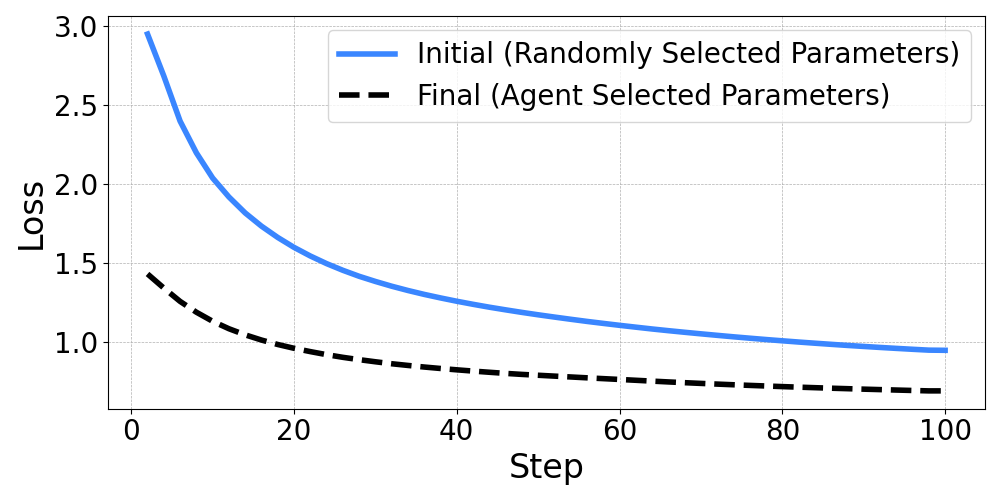
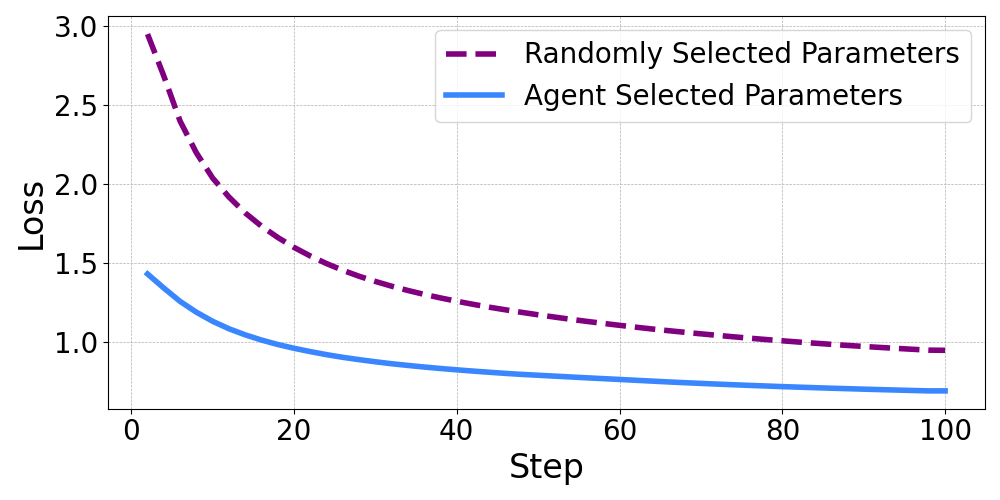
update with GPT OSS

diff --git a/plots/plot_bar.py b/plots/plot_bar.py
@@ -4,169 +4,66 @@ import matplotlib.pyplot as plt
 
 agent5_data =  {'384_0.00404': 62.89992843872104, '1024_0.00379': 26.82429755882198, '384_0.00409': 67.39568315689748, '768_0.00328': 28.790424361720607, '384_0.00414': 70.61010254234425, '2048_0.00328': 10.167381108538397, '384_0.00419': 67.6698206821534, '768_0.00444': 25.870406930615218, '384_0.00424': 70.57944462932984, '384_0.00399': 68.67044387922245, '384_0.00429': 69.3977058792889, '768_0.00419': 26.575331707043922, '384_0.00439': 66.13408440331892, '768_0.00394': 24.719500221680185, '384_0.00434': 62.350700800297666, '768_0.00424': 27.31605726437374, '384_0.00499': 63.43365163994893, '768_0.00429': 26.78281924381954, '384_0.00449': 68.20629150441275, '768_0.00460': 26.10915553665433, '384_0.00459': 67.04721986739602, '4096_0.00409': 1.2561136281323246, '768_0.00379': 25.25305523962445, '384_0.00444': 66.73690763557939, '768_0.00414': 26.118078801712006, '384_0.00455': 66.25022205753817, '384_0.00460': 69.57494851605087, '384_0.00465': 64.03034165067179, '768_0.00333': 26.609280721997248, '384_0.00469': 67.17306958175313, '384_0.00471': 66.08291262407283, '384_0.00479': 63.10189474040365, '768_0.00369': 25.14579358063616, '768_0.00389': 23.746610640747498, '384_0.00490': 66.01781827833318, '768_0.00348': 28.057834520510685, '384_0.00422': 67.56488274859116, '768_0.00288': 27.391336838612673, '384_0.00435': 69.93461326825104, '384_0.00475': 64.67585599324066, '384_0.00402': 67.80355337177382, '384_0.00410': 71.0943177079664, '384_0.00420': 70.61150530753595, '384_0.00394': 68.92841358905969, '384_0.00480': 63.3536271209436, '768_0.00439': 25.32875408911212, '384_0.00440': 66.12332246529239, '384_0.00405': 66.09580819143844, '384_0.00415': 66.35225722209671, '384_0.00425': 68.77247848587687, '384_0.00445': 69.354873240052, '384_0.00464': 66.10281457305287, '384_0.00454': 70.36670835947007, '384_0.00450': 68.28890790047375, '384_0.00470': 62.65338359663198, '384_0.00495': 64.86974583671339, '384_0.00389': 68.5595754575047, '384_0.00412': 66.87840456367671, '384_0.00408': 67.51329631926352, '1024_0.00394': 27.642439147799617, '384_0.00484': 71.68887610755866, '384_0.00485': 69.167348291433, '384_0.00430': 68.64606732316547, '384_0.00384': 68.09371343393407, '384_0.00486': 68.6299969176348, '768_0.00486': 24.53622169760704, '1024_0.00409': 26.91209516364785, '384_0.00493': 64.65327499291203, '768_0.00352': 28.489089455753277, '768_0.00495': 22.38529260155235, '384_0.00354': 75.43911230193855, '384_0.00403': 69.88170748654464, '384_0.00369': 71.640532260971, '384_0.00488': 64.9937328510308, '384_0.00400': 67.61144419731598, '384_0.00411': 70.50597012408639, '384_0.00359': 72.72696737599598, '768_0.00403': 26.809270626760334, '384_0.00364': 69.63992069106752, '768_0.00354': 26.57359941305943, '384_0.00413': 68.60823693536467, '768_0.00353': 27.240146092827818, '1024_0.00424': 24.903560554666424, '384_0.00407': 69.5501373587998, '384_0.00431': 67.91788167007742, '384_0.00355': 72.27565630146275, '384_0.00406': 68.57183199580817, '384_0.00358': 74.71245558535863, '1024_0.00399': 28.704671973176097, '384_0.00353': 72.92860810000957, '768_0.00283': 28.60588041537368, '384_0.00283': 77.83231091864579, '384_0.00374': 69.82883241930443, '384_0.00237': 77.88890955726276, '384_0.00323': 75.27150949403206, '384_0.00243': 78.52366019446045, '384_0.00248': 79.59882288120752, '384_0.00232': 79.1084562247092, '384_0.00217': 80.65226486547104, '384_0.00222': 81.92525327725751, '384_0.00212': 80.5833978965932, '384_0.00227': 78.37833191832755, '384_0.00207': 78.6584423267902, '384_0.00197': 81.84375407003499, '384_0.00297': 74.91506079914444, '384_0.00103': 84.62170151946538, '384_0.00050': 84.07805813013012, '384_0.00121': 83.37328729645768, '384_0.00116': 84.27134576926119, '384_0.00203': 81.34063109862035, '384_0.00086': 85.24431993385153, '384_0.00081': 85.53765221314535, '384_0.00045': 83.81560524599014, '384_0.00051': 85.40445595925513, '384_0.00030': 79.04369925589437, '384_0.00020': 72.07696699048799, '384_0.00076': 85.58985231390176, '768_0.00051': 40.90771925615962, '384_0.00126': 83.1246558102795, '384_0.00015': 67.12605575460229, '1024_0.00005': 37.48953537641294, '384_0.00061': 85.89137368504083, '768_0.00126': 36.83218990818042, '384_0.00005': 49.266808660283594, '384_0.00091': 84.80800170935896, '384_0.00136': 84.3433481098442, '384_0.00046': 85.52413757346095, '384_0.00066': 84.94904757738865, '384_0.00071': 85.30023660735802, '384_0.00016': 67.41695379739474, '384_0.00021': 73.06445117995176, '384_0.00001': 40.220111294812924, '384_0.00131': 83.72008584423223, '384_0.00006': 50.84517848835364, '384_0.00007': 52.72975195246471, '384_0.00011': 59.76182064007383, '384_0.00056': 84.55679751457015, '384_0.00141': 82.55999574498261, '1024_0.00015': 44.80948773854212, '384_0.00065': 85.64633545129566, '384_0.00090': 84.10601625867069, '384_0.00314': 78.55325720196362, '384_0.00105': 84.72058624729631, '384_0.00268': 74.65946290739285, '384_0.00003': 44.851522028022714, '768_0.00005': 30.488022205478917, '384_0.00035': 81.06140318364268, '384_0.00025': 76.555579124697, '384_0.00010': 58.87735086089424, '384_0.00040': 83.56865651349237, '384_0.00088': 85.55544802315345, '384_0.00108': 84.09855150818859, '384_0.00012': 61.269749681517034}
 agent1_data = {'4096_0.00455': 1.0569741219486337, '384_0.00328': 73.7007823116046, '768_0.00328': 26.825667554766135, '384_0.00455': 67.67692430458075, '2048_0.00455': 8.141340938028709, '1024_0.00485': 25.305225049967362, '384_0.00465': 66.40477828374375, '384_0.00372': 72.74592376591431, '384_0.00379': 69.65401470502968, '384_0.00384': 73.03808119378498, '384_0.00339': 71.3660033564182, '384_0.00329': 71.47132470643334, '384_0.00389': 69.87225683315258, '384_0.00394': 70.43426890822799, '384_0.00348': 72.93257209002518, '384_0.00323': 73.7993191610922, '768_0.00339': 24.95440069045577, '384_0.00325': 74.65388927987786, '384_0.00318': 76.19421944524497, '384_0.00313': 75.02000257682148, '384_0.00308': 75.88252170568978, '384_0.00303': 73.39257104366585, '384_0.00314': 70.41130425750895, '384_0.00298': 73.11563719835243, '384_0.00333': 74.60799785132352, '384_0.00319': 74.61415014736406, '768_0.00319': 27.424384083725293, '384_0.00317': 76.11117073733791, '384_0.00312': 71.14304258271915, '384_0.00293': 74.35101443897105, '384_0.00316': 76.76975700759465, '384_0.00307': 75.10803615861666, '384_0.00321': 72.10324193479782, '384_0.00302': 74.42246617805033, '384_0.00315': 75.70136756851431, '384_0.00326': 75.72173707047534, '384_0.00311': 75.24492977848139, '384_0.00310': 74.75354426626275, '384_0.00320': 74.95890996516127, '384_0.00309': 74.76334646611521, '384_0.00306': 76.21328409702197, '384_0.00305': 75.31026663112662, '384_0.00301': 77.08297406119596, '384_0.00300': 75.3210412322811, '384_0.00331': 75.19763543570747, '384_0.00304': 76.89995536751866, '384_0.00336': 74.33441296026591, '384_0.00288': 75.89936003387099, '384_0.00335': 73.42445980883272, '384_0.00283': 78.33503462442424, '384_0.00278': 78.4111582294144, '384_0.00273': 79.00765455464887, '384_0.00268': 79.92337954528121, '384_0.00263': 76.41480129126434, '384_0.00258': 79.32164884016098, '384_0.00253': 80.21681809394936, '384_0.00247': 82.0402842987772}
-agent5_data =  {
-  '384_0.00404': 62.89992843872104,
-  '2048_0.00298': 26.82429755882198,
-  '384_0.00409': 67.39568315689748,
-  '4096_0.00293': 28.790424361720607,
-  '384_0.00414': 70.61010254234425,
-  '2048_0.00288': 10.167381108538397,
-  '384_0.00419': 67.6698206821534,
-  '4096_0.00283': 25.870406930615218,
-  '384_0.00424': 70.57944462932984,
-  '384_0.00399': 68.67044387922245,
-  '384_0.00429': 69.3977058792889,
-  '2048_0.00278': 26.575331707043922,
-  '384_0.00439': 66.13408440331892,
-  '4096_0.00273': 24.719500221680185,
-  '384_0.00434': 62.350700800297666,
-  '2048_0.00268': 27.31605726437374,
-  '384_0.00499': 63.43365163994893,
-  '4096_0.00263': 26.78281924381954,
-  '384_0.00449': 68.20629150441275,
-  '2048_0.00258': 26.10915553665433,
-  '384_0.00459': 67.04721986739602,
-  '4096_0.00253': 1.2561136281323246,
-  '2048_0.00248': 25.25305523962445,
-  '384_0.00444': 66.73690763557939,
-  '4096_0.00243': 26.118078801712006,
-  '384_0.00455': 66.25022205753817,
-  '384_0.00460': 69.57494851605087,
-  '384_0.00465': 64.03034165067179,
-  '2048_0.00237': 26.609280721997248,
-  '384_0.00469': 67.17306958175313,
-  '384_0.00471': 66.08291262407283,
-  '384_0.00479': 63.10189474040365,
-  '4096_0.00232': 25.14579358063616,
-  '2048_0.00227': 23.746610640747498,
-  '384_0.00490': 66.01781827833318,
-  '4096_0.00222': 28.057834520510685,
-  '384_0.00422': 67.56488274859116,
-  '2048_0.00217': 27.391336838612673,
-  '384_0.00435': 69.93461326825104,
-  '384_0.00475': 64.67585599324066,
-  '384_0.00402': 67.80355337177382,
-  '384_0.00410': 71.0943177079664,
-  '384_0.00420': 70.61150530753595,
-  '384_0.00394': 68.92841358905969,
-  '384_0.00480': 63.3536271209436,
-  '4096_0.00212': 25.32875408911212,
-  '384_0.00440': 66.12332246529239,
-  '384_0.00405': 66.09580819143844,
-  '384_0.00415': 66.35225722209671,
-  '384_0.00425': 68.77247848587687,
-  '384_0.00445': 69.354873240052,
-  '384_0.00464': 66.10281457305287,
-  '384_0.00454': 70.36670835947007,
-  '384_0.00450': 68.28890790047375,
-  '384_0.00470': 62.65338359663198,
-  '384_0.00495': 64.86974583671339,
-  '384_0.00389': 68.5595754575047,
-  '384_0.00412': 66.87840456367671,
-  '384_0.00408': 67.51329631926352,
-  '2048_0.00207': 27.642439147799617,
-  '384_0.00484': 71.68887610755866,
-  '384_0.00485': 69.167348291433,
-  '384_0.00430': 68.64606732316547,
-  '384_0.00384': 68.09371343393407,
-  '384_0.00486': 68.6299969176348,
-  '4096_0.00202': 24.53622169760704,
-  '2048_0.00197': 26.91209516364785,
-  '384_0.00493': 64.65327499291203,
-  '4096_0.00192': 28.489089455753277,
-  '2048_0.00187': 22.38529260155235,
-  '384_0.00354': 75.43911230193855,
-  '384_0.00403': 69.88170748654464,
-  '384_0.00369': 71.640532260971,
-  '384_0.00488': 64.9937328510308,
-  '384_0.00400': 67.61144419731598,
-  '384_0.00411': 70.50597012408639,
-  '384_0.00359': 72.72696737599598,
-  '4096_0.00182': 26.809270626760334,
-  '384_0.00364': 69.63992069106752,
-  '2048_0.00177': 26.57359941305943,
-  '384_0.00413': 68.60823693536467,
-  '4096_0.00172': 27.240146092827818,
-  '2048_0.00167': 24.903560554666424,
-  '384_0.00407': 69.5501373587998,
-  '384_0.00431': 67.91788167007742,
-  '384_0.00355': 72.27565630146275,
-  '384_0.00406': 68.57183199580817,
-  '384_0.00358': 74.71245558535863,
-  '4096_0.00162': 28.704671973176097,
-  '384_0.00353': 72.92860810000957,
-  '2048_0.00157': 28.60588041537368,
-  '384_0.00283': 77.83231091864579,
-  '384_0.00374': 69.82883241930443,
-  '384_0.00237': 77.88890955726276,
-  '384_0.00323': 75.27150949403206,
-  '384_0.00243': 78.52366019446045,
-  '384_0.00248': 79.59882288120752,
-  '384_0.00232': 79.1084562247092,
-  '384_0.00217': 80.65226486547104,
-  '384_0.00222': 81.92525327725751,
-  '384_0.00212': 80.5833978965932,
-  '384_0.00227': 78.37833191832755,
-  '384_0.00207': 78.6584423267902,
-  '384_0.00197': 81.84375407003499,
-  '384_0.00297': 74.91506079914444,
-  '384_0.00103': 84.62170151946538,
-  '384_0.00050': 84.07805813013012,
-  '384_0.00121': 83.37328729645768,
-  '384_0.00116': 84.27134576926119,
-  '384_0.00203': 81.34063109862035,
-  '384_0.00086': 85.24431993385153,
-  '384_0.00081': 85.53765221314535,
-  '384_0.00045': 83.81560524599014,
-  '384_0.00051': 85.40445595925513,
-  '384_0.00030': 79.04369925589437,
-  '384_0.00020': 72.07696699048799,
-  '384_0.00076': 85.58985231390176,
-  '768_0.00051': 40.90771925615962,
-  '384_0.00126': 83.1246558102795,
-  '384_0.00015': 67.12605575460229,
-  '1024_0.00005': 37.48953537641294,
-  '384_0.00061': 85.89137368504083,
-  '768_0.00126': 36.83218990818042,
-  '384_0.00005': 49.266808660283594,
-  '384_0.00091': 84.80800170935896,
-  '384_0.00136': 84.3433481098442,
-  '384_0.00046': 85.52413757346095,
-  '384_0.00066': 84.94904757738865,
-  '384_0.00071': 85.30023660735802,
-  '384_0.00016': 67.41695379739474,
-  '384_0.00021': 73.06445117995176,
-  '384_0.00001': 40.220111294812924,
-  '384_0.00131': 83.72008584423223,
-  '384_0.00006': 50.84517848835364,
-  '384_0.00007': 52.72975195246471,
-  '384_0.00011': 59.76182064007383,
-  '384_0.00056': 84.55679751457015,
-  '384_0.00141': 82.55999574498261,
-  '1024_0.00015': 44.80948773854212,
-  '384_0.00065': 85.64633545129566,
-  '384_0.00090': 84.10601625867069,
-  '384_0.00314': 78.55325720196362,
-  '384_0.00105': 84.72058624729631,
-  '384_0.00268': 74.65946290739285,
-  '384_0.00003': 44.851522028022714,
-  '4096_0.00152': 30.488022205478917,
-  '384_0.00035': 81.06140318364268,
-  '384_0.00025': 76.555579124697,
-  '384_0.00010': 58.87735086089424,
-  '384_0.00040': 83.56865651349237,
-  '384_0.00088': 85.55544802315345,
-  '384_0.00108': 84.09855150818859,
-  '384_0.00012': 61.269749681517034
-}  
-
+agent5_data = {'384_0.00404': 62.89992843872104, '2048_0.00298': 26.82429755882198, '384_0.00409': 67.39568315689748, '4096_0.00293': 28.790424361720607, '384_0.00414': 70.61010254234425, '2048_0.00288': 10.167381108538397, '384_0.00419': 67.6698206821534, '4096_0.00283': 25.870406930615218, '384_0.00424': 70.57944462932984, '384_0.00399': 68.67044387922245, '384_0.00429': 69.3977058792889, '2048_0.00278': 26.575331707043922, '384_0.00439': 66.13408440331892, '4096_0.00273': 24.719500221680185, '384_0.00434': 62.350700800297666, '2048_0.00268': 27.31605726437374, '384_0.00499': 63.43365163994893, '4096_0.00263': 26.78281924381954, '384_0.00449': 68.20629150441275, '2048_0.00258': 26.10915553665433, '384_0.00459': 67.04721986739602, '4096_0.00253': 1.2561136281323246, '2048_0.00248': 25.25305523962445, '384_0.00444': 66.73690763557939, '4096_0.00243': 26.118078801712006, '384_0.00455': 66.25022205753817, '384_0.00460': 69.57494851605087, '384_0.00465': 64.03034165067179, '2048_0.00237': 26.609280721997248, '384_0.00469': 67.17306958175313, '384_0.00471': 66.08291262407283, '384_0.00479': 63.10189474040365, '4096_0.00232': 25.14579358063616, '2048_0.00227': 23.746610640747498, '384_0.00490': 66.01781827833318, '4096_0.00222': 28.057834520510685, '384_0.00422': 67.56488274859116, '2048_0.00217': 27.391336838612673, '384_0.00435': 69.93461326825104, '384_0.00475': 64.67585599324066, '384_0.00402': 67.80355337177382, '384_0.00410': 71.0943177079664, '384_0.00420': 70.61150530753595, '384_0.00394': 68.92841358905969, '384_0.00480': 63.3536271209436, '4096_0.00212': 25.32875408911212, '384_0.00440': 66.12332246529239, '384_0.00405': 66.09580819143844, '384_0.00415': 66.35225722209671, '384_0.00425': 68.77247848587687, '384_0.00445': 69.354873240052, '384_0.00464': 66.10281457305287, '384_0.00454': 70.36670835947007, '384_0.00450': 68.28890790047375, '384_0.00470': 62.65338359663198, '384_0.00495': 64.86974583671339, '384_0.00389': 68.5595754575047, '384_0.00412': 66.87840456367671, '384_0.00408': 67.51329631926352, '2048_0.00207': 27.642439147799617, '384_0.00484': 71.68887610755866, '384_0.00485': 69.167348291433, '384_0.00430': 68.64606732316547, '384_0.00384': 68.09371343393407, '384_0.00486': 68.6299969176348, '4096_0.00202': 24.53622169760704, '2048_0.00197': 26.91209516364785, '384_0.00493': 64.65327499291203, '4096_0.00192': 28.489089455753277, '2048_0.00187': 22.38529260155235, '384_0.00354': 75.43911230193855, '384_0.00403': 69.88170748654464, '384_0.00369': 71.640532260971, '384_0.00488': 64.9937328510308, '384_0.00400': 67.61144419731598, '384_0.00411': 70.50597012408639, '384_0.00359': 72.72696737599598, '4096_0.00182': 26.809270626760334, '384_0.00364': 69.63992069106752, '2048_0.00177': 26.57359941305943, '384_0.00413': 68.60823693536467, '4096_0.00172': 27.240146092827818, '2048_0.00167': 24.903560554666424, '384_0.00407': 69.5501373587998, '384_0.00431': 67.91788167007742, '384_0.00355': 72.27565630146275, '384_0.00406': 68.57183199580817, '384_0.00358': 74.71245558535863, '4096_0.00162': 28.704671973176097, '384_0.00353': 72.92860810000957, '2048_0.00157': 28.60588041537368, '384_0.00283': 77.83231091864579, '384_0.00374': 69.82883241930443, '384_0.00237': 77.88890955726276, '384_0.00323': 75.27150949403206, '384_0.00243': 78.52366019446045, '384_0.00248': 79.59882288120752, '384_0.00232': 79.1084562247092, '384_0.00217': 80.65226486547104, '384_0.00222': 81.92525327725751, '384_0.00212': 80.5833978965932, '384_0.00227': 78.37833191832755, '384_0.00207': 78.6584423267902, '384_0.00197': 81.84375407003499, '384_0.00297': 74.91506079914444, '384_0.00103': 84.62170151946538, '384_0.00050': 84.07805813013012, '384_0.00121': 83.37328729645768, '384_0.00116': 84.27134576926119, '384_0.00203': 81.34063109862035, '384_0.00086': 85.24431993385153, '384_0.00081': 85.53765221314535, '384_0.00045': 83.81560524599014, '384_0.00051': 85.40445595925513, '384_0.00030': 79.04369925589437, '384_0.00020': 72.07696699048799, '384_0.00076': 85.58985231390176, '768_0.00051': 40.90771925615962, '384_0.00126': 83.1246558102795, '384_0.00015': 67.12605575460229, '1024_0.00005': 37.48953537641294, '384_0.00061': 85.89137368504083, '768_0.00126': 36.83218990818042, '384_0.00005': 49.266808660283594, '384_0.00091': 84.80800170935896, '384_0.00136': 84.3433481098442, '384_0.00046': 85.52413757346095, '384_0.00066': 84.94904757738865, '384_0.00071': 85.30023660735802, '384_0.00016': 67.41695379739474, '384_0.00021': 73.06445117995176, '384_0.00001': 40.220111294812924, '384_0.00131': 83.72008584423223, '384_0.00006': 50.84517848835364, '384_0.00007': 52.72975195246471, '384_0.00011': 59.76182064007383, '384_0.00056': 84.55679751457015, '384_0.00141': 82.55999574498261, '1024_0.00015': 44.80948773854212, '384_0.00065': 85.64633545129566, '384_0.00090': 84.10601625867069, '384_0.00314': 78.55325720196362, '384_0.00105': 84.72058624729631, '384_0.00268': 74.65946290739285, '384_0.00003': 44.851522028022714, '4096_0.00152': 30.488022205478917, '384_0.00035': 81.06140318364268, '384_0.00025': 76.555579124697, '384_0.00010': 58.87735086089424, '384_0.00040': 83.56865651349237, '384_0.00088': 85.55544802315345, '384_0.00108': 84.09855150818859, '384_0.00012': 61.269749681517034}
+ 
+agent_oss_data= {'384_0.00500': 64.6815924991638, '1024_0.00300': 28.335384212033688, '384_0.00450': 66.8543759380095, '384_0.00400': 67.46782266038241, '768_0.00400': 26.859764096910737, '384_0.00390': 70.39884350365737, '384_0.00350': 72.4264240783316, '384_0.00300': 74.03299213080682, '384_0.00250': 76.06545362388118, '384_0.00200': 79.27071398452175, '384_0.00232': 80.33969621360164, '384_0.00258': 82.02}
 # Prepare x and y
-x = list(agent1_data.keys())
-y = list(agent1_data.values())
+# x = list(agent1_data.keys())
+# y = list(agent1_data.values())
 
 # agent5_data= dict(list(agent5_data.items())[40:114])
 # x = list(agent5_data.keys())
 # y = list(agent5_data.values())
+
+#double x axis 
+
+import matplotlib.pyplot as plt
+import numpy as np
+
+# Example data (replace with your real dicts)
+agent1_data = list(agent1_data.values())
+agent_oss_data = list(agent_oss_data.values())
+
+# Find max length
+max_len = max(len(agent1_data), len(agent_oss_data))
+
+# Pad shorter list with NaNs so lengths match
+agent1_data = agent1_data + [np.nan] * (max_len - len(agent1_data))
+agent_oss_data = agent_oss_data + [np.nan] * (max_len - len(agent_oss_data))
+
+indices = np.arange(max_len)
+bar_width = 0.4
+
+plt.figure(figsize=(10, 5))
+plt.bar(indices - bar_width/2, agent1_data, width=bar_width, label="Nemotron-Ultra-253B", color="skyblue")
+plt.bar(indices + bar_width/2, agent_oss_data, width=bar_width, label="GPT-OSS-120B", color="orange")
+
+plt.xlabel("Trial Index", fontsize=24)
+plt.ylabel("Score", fontsize=24)
+# plt.xticks(indices, indices, rotation=45, fontsize=14)
+plt.xticks(
+    ticks=np.arange(0, len(agent1_data), 2),  # every 2nd tick
+    labels=np.arange(0, len(agent1_data), 2),
+    rotation=45,
+    ha='right',
+    fontsize=16
+)
+plt.yticks(fontsize=16)
+plt.legend(fontsize=18, loc='upper center', bbox_to_anchor=(0.5, 1.19), ncol=4)
+
+# plt.legend(fontsize=24)
+plt.grid(axis="y", linestyle="--", alpha=0.7)
+plt.tight_layout()
+
+
+plt.savefig("trial_index_comparison.png", dpi=300)
+plt.show()
+
+
+exit(0)
+
+x = list(agent_oss_data.keys())
+y = list(agent_oss_data.values())
 
 
 # Plot
@@ -182,4 +79,4 @@ plt.ylabel("Score", fontsize=34)
 plt.tight_layout()
 plt.tick_params(axis='both', labelsize=20)
 plt.grid(True, which="both", linestyle='--', linewidth=0.5)
-plt.savefig("/lustre/orion/stf218/proj-shared/brave/vllm_test/plots/agent1.png")
+plt.savefig("/lustre/orion/stf218/proj-shared/brave/vllm_test/plots/agent_oss.png")

diff --git a/main.py b/main.py
@@ -17,7 +17,7 @@ EMB_VALUES = [384, 768, 1024, 2048, 4096]
 LR_VALUES = [round(lr, 5) for lr in np.linspace(0.005, 0.0000005, 100).tolist()]
 TOTAL_SEARCH_SPACE = len(EMB_VALUES) * len(LR_VALUES)
 SCORE_THRESHOLD = 185 # Stop when the best score reaches this value
-MAX_TRIALS = 3
+MAX_TRIALS = 120
 
 def log_message(agent_id: int, message: str):
     """Prints a message with a timestamp and agent ID."""
@@ -128,10 +128,12 @@ Based on the results so far, select up to **5** new, promising, untried `(embedd
 - **Available Embedding Sizes**: {EMB_VALUES}
 - **Available Learning Rates**: A range from {LR_VALUES[0]} to {LR_VALUES[-1]}
 Respond with a Python list of tuples, like: `[(1024, 0.00123), (2048, 0.00050)]`
-It should be the last thing you write.
+- **briefly describe how did you reach your result before the tuples. write your reasoning process in 10 sentences. Only important parts.
+-Tuples should be the last thing you write.
 """
     try:
         response = safe_llm_call(agent_id, prompt)
+        print("response:", response)
         suggested_params = parse_llm_response(response)
     except Exception as e:
         log_message(agent_id, f"❌ An error occurred during LLM call: {e}")
@@ -246,7 +248,8 @@ if __name__ == "__main__":
 
     try:
         with open('.nemotron_token', 'r') as token_file: TOKEN = token_file.readline().strip()
-        llm = ChatOpenAI(api_key=f"{TOKEN}", base_url="https://obsidian.ccs.ornl.gov/ai/nemotron/api/v1", model_name="Llama-3_1-Nemotron-Ultra-253B-v1-FP8")
+        #llm = ChatOpenAI(api_key=f"{TOKEN}", base_url="https://obsidian.ccs.ornl.gov/ai/nemotron/api/v1", model_name="Llama-3_1-Nemotron-Ultra-253B-v1-FP8")
+        llm = ChatOpenAI(api_key=f"{TOKEN}", base_url="https://obsidian.ccs.ornl.gov/ai/nemotron/api/v1", model_name="gpt-oss-120b")
     except FileNotFoundError:
         print("❌ Token file '.nemotron_token' not found. Exiting.")
         exit(1)

diff --git a/plots/compare_image.py b/plots/compare_image.py
@@ -1,0 +1,52 @@
+import os
+import numpy as np
+import matplotlib.pyplot as plt
+from skimage.io import imread
+from skimage.color import rgb2gray
+from skimage.metrics import structural_similarity as ssim
+from skimage.metrics import mean_squared_error as mse
+from skimage.metrics import peak_signal_noise_ratio as psnr
+from skimage.util import img_as_float
+from skimage.transform import resize
+
+def load_and_preprocess(path):
+    img = imread(path)
+    if img.shape[-1] == 4:
+        img = img[..., :3]  # Remove alpha channel
+    img = img_as_float(img)
+    return rgb2gray(img)
+
+def compare_images(img_path_a, img_path_b):
+    gray_a = load_and_preprocess(img_path_a)
+    gray_b = load_and_preprocess(img_path_b)
+
+    # Resize to match shapes
+    target_shape = min(gray_a.shape, gray_b.shape)
+    gray_a = resize(gray_a, target_shape, anti_aliasing=True)
+    gray_b = resize(gray_b, target_shape, anti_aliasing=True)
+
+    # Compute metrics
+    ssim_val = ssim(gray_a, gray_b, data_range=1.0)
+    mse_val = mse(gray_a, gray_b)
+    psnr_val = psnr(gray_a, gray_b, data_range=1.0)
+
+    # Compute and show visual diff
+    diff_map = np.abs(gray_a - gray_b)
+    plt.figure(figsize=(10, 4))
+    plt.imshow(diff_map, cmap='hot')
+    plt.colorbar(label='Absolute Difference')
+    plt.title('Visual Difference Map (Image A - Image B)')
+    plt.axis('off')
+    plt.tight_layout()
+    plt.show()
+
+    # Print metrics
+    print(f"SSIM:  {ssim_val:.4f}")
+    print(f"MSE:   {mse_val:.6f}")
+    print(f"PSNR:  {psnr_val:.2f} dB")
+
+if __name__ == "__main__":
+    # Set your file paths here
+    img_path_a = "a.png"
+    img_path_b = "b.png"
+    compare_images(img_path_a, img_path_b)

diff --git a/temp.py b/temp.py
@@ -1,0 +1,33 @@
+# Save this as check_job.py
+import subprocess
+import sys
+
+if len(sys.argv) != 2:
+    print("Usage: python check_job.py <JOB_ID>")
+    sys.exit(1)
+
+job_id = sys.argv[1]
+active_states = ["PENDING", "RUNNING", "PD", "R"]
+
+print(f"--- Checking status for Job ID: {job_id} ---")
+
+try:
+    command = ["squeue", "--noheader", "--job", job_id, "--format=%T"]
+    print(f"Running command: {' '.join(command)}")
+    
+    output = subprocess.check_output(
+        command,
+        stderr=subprocess.STDOUT
+    ).decode().strip()
+
+    print(f"Raw output from squeue: '{output}'")
+    print(f"Is job in an active state? ({output!r} in {active_states!r})")
+
+    if output in active_states:
+        print("Result: Job is considered ACTIVE. The agent would continue waiting.")
+    else:
+        print("Result: Job is considered FINISHED. The agent would proceed.")
+
+except subprocess.CalledProcessError:
+    print("\nCommand failed with CalledProcessError.")
+    print("Result: Job is considered FINISHED. The agent would proceed.")

diff --git a/plots/plot_loss.py b/plots/plot_loss.py
@@ -27,8 +27,8 @@ steps = np.arange(2, 2 * len(start_loss) + 1, 2) #np.arange(1, len(start_loss) +
 
 # Plot
 plt.figure(figsize=(10, 5))
-plt.plot(steps, final_loss, label="Initial (Randomly Selected Parameters)", linewidth=4, color="#3A86FF")
-plt.plot(steps, start_loss, label="Final (Agent Selected Parameters)", linewidth=4, color="black", linestyle='--')
+plt.plot(steps, final_loss, label="Randomly Selected Parameters", linewidth=4, color='purple', linestyle='--')
+plt.plot(steps, start_loss, label="Agent Selected Parameters", linewidth=4, color="#3A86FF")
 
 # Aesthetics
 plt.xlabel('Step', fontsize=24)

diff --git a/plots/plot_weak.py b/plots/plot_weak.py
@@ -17,7 +17,7 @@ plt.figure(figsize=(10, 5))
 
 # Bar plot for actual times
 bar_width = 2
-plt.bar(agents, adjusted_time_s, width=bar_width, color='#3A86FF', label="AgentX")
+plt.bar(agents, adjusted_time_s, width=bar_width, color='#3A86FF', label="Agentic System")
 
 # Ideal (power-law) scaling line
 # plt.plot(agents, ideal_times, '--', color='black', linewidth=2, label='Ideal (p=0.3)')

diff --git a/plots/plot_strong.py b/plots/plot_strong.py
@@ -16,7 +16,7 @@ ideal_times = k / (agents ** p)
 plt.figure(figsize=(10, 5))
 plt.yscale('log')
 bar_width = 2
-plt.bar(agents, time_s, width=bar_width, color='#3A86FF', label="AgentX")
+plt.bar(agents, time_s, width=bar_width, color='#3A86FF', label="Agentic System")
 
 # Ideal dashed line
 plt.plot(agents, ideal_times, '--', color='black', linewidth=4, label='Ideal')
